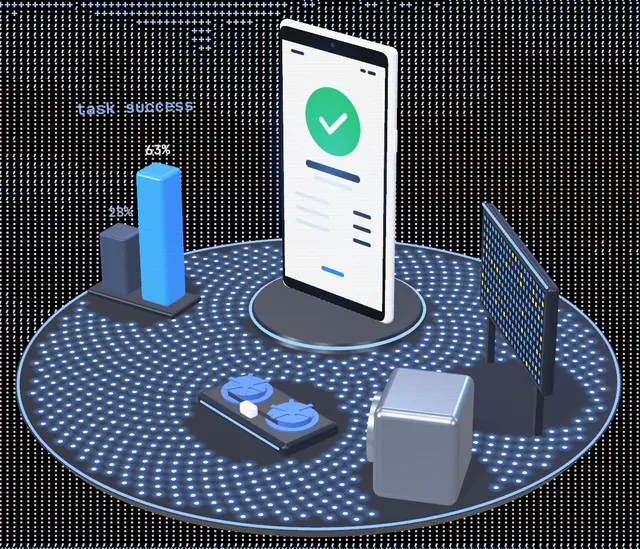
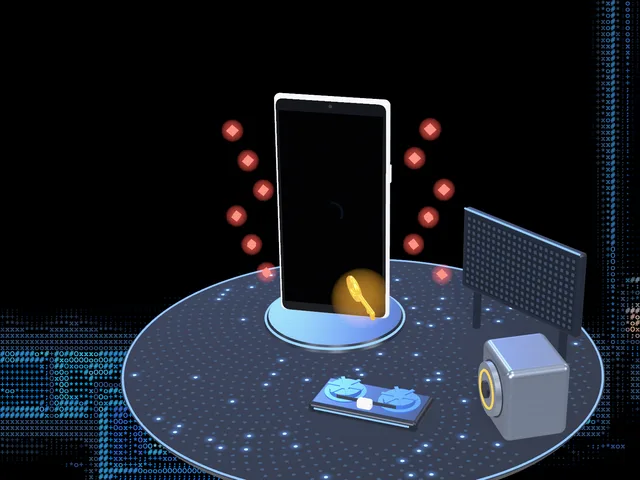
content: revise Blue Shield experience details

diff --git a/src/components/roles/scenes/blue-shield.ts b/src/components/roles/scenes/blue-shield.ts
@@ -5,7 +5,7 @@
  * without the service JWT, and both come back with the same response, the flaw it proved. The app's bundled
  * credential, a gold key in front of the phone, then moves server-side into a vault. In the close the phone's blank
  * screen (the production defect) boots into the rebuilt billing and payment flow, twelve red risk markers around it
- * are fixed, a task-success bar rises from 28% to 63%, and the member lights come on outward from the phone.
+ * are fixed, and the member lights come on outward from the phone.
  *
  * The home page shows the finished world. A click on an endpoint replays a pair against it, a click on the lit
  * phone steps through the flow's screens, and the pointer wakes the member lights it passes over. Motion follows the
@@ -42,9 +42,6 @@ const GRID = { cols: 21, rows: 11, w: 1.24, h: 0.66, y: 0.74 }
 /** The endpoint the scrolled pair replays against, and the share of endpoints the audit flags. */
 const PAIR_CELL = 115
 const FLAGGED = 0.16
-/** The task-success bars: before and after the rebuilt flows, as fractions, and the bars' full height. */
-const SUCCESS = { before: 0.28, after: 0.63, height: 1.6 }
-const BARS = { x: -1.5, z: 0.62, yaw: 0.5 }
 /** Crash and data-integrity risks fixed, one marker each. */
 const RISKS = 12
 /** Requests the work act streams at the wall before the pair. */
@@ -317,26 +314,6 @@ function drawScreens() {
   return canvas
 }
 
-/** The bars' printed labels in three rows of a transparent 512 by 384 canvas: 28%, 63%, and "task success". */
-function drawFigures() {
-  const canvas = document.createElement('canvas')
-  canvas.width = 512
-  canvas.height = 384
-  const g = canvas.getContext('2d')
-  if (!g) return canvas
-  g.textAlign = 'center'
-  g.textBaseline = 'middle'
-  g.font = '600 92px "JetBrains Mono", "IBM Plex Mono", ui-monospace, Menlo, monospace'
-  g.fillStyle = '#9fb2d2'
-  g.fillText('28%', 256, 64)
-  g.fillStyle = '#ffffff'
-  g.fillText('63%', 256, 192)
-  g.font = '500 58px "JetBrains Mono", "IBM Plex Mono", ui-monospace, Menlo, monospace'
-  g.fillStyle = '#7fb0ff'
-  g.fillText('task success', 256, 320)
-  return canvas
-}
-
 const createScene: IslandFactory = (ctx) => {
   const scene = new THREE.Scene()
   scene.environment = ctx.environment
@@ -414,14 +391,13 @@ const createScene: IslandFactory = (ctx) => {
   const deck = placed(new THREE.Group(), DECK)
   const wall = placed(new THREE.Group(), WALL)
   const vault = placed(new THREE.Group(), VAULT)
-  const bars = placed(new THREE.Group(), BARS)
 
   // The member lights: a sunflower spiral clear of everything standing on the table.
   const memberX: number[] = []
   const memberZ: number[] = []
   {
     const golden = Math.PI * (3 - Math.sqrt(5))
-    const clear = [[PHONE, 0.68], [DECK, 0.52], [WALL, 0.5], [VAULT, 0.42], [BARS, 0.42]] as const
+    const clear = [[PHONE, 0.68], [DECK, 0.52], [WALL, 0.5], [VAULT, 0.42]] as const
     for (let i = 0; i < MEMBERS; i++) {
       const r = (TABLE_R - 0.1) * Math.sqrt((i + 0.5) / MEMBERS)
       const x = Math.cos(i * golden) * r
@@ -644,40 +620,6 @@ const createScene: IslandFactory = (ctx) => {
     const row = Math.floor(index / GRID.cols)
     out.set(((col + 0.5) / GRID.cols - 0.5) * GRID.w, GRID.y + (0.5 - (row + 0.5) / GRID.rows) * GRID.h, 0.05)
     return out.applyMatrix4(wall.matrix)
-  }
-
-  // The task-success bars: 28% before the rebuilt flows and 63% after, with their figures printed above.
-  const afterBar = new THREE.Group()
-  const figures = own(new THREE.CanvasTexture(drawFigures()))
-  figures.colorSpace = THREE.SRGBColorSpace
-  const figureMaterial = own(new THREE.MeshBasicMaterial({ map: figures, transparent: true, depthWrite: false }))
-  const afterMaterial = own(new THREE.MeshBasicMaterial({ map: figures, transparent: true, depthWrite: false }))
-  /** A label plane `w` wide showing row `row` of the figures canvas, turned to the camera each frame. */
-  const label = (row: number, w: number, material: THREE.Material) => {
-    const geometry = keep(new THREE.PlaneGeometry(w, w / 4))
-    const uv = geometry.getAttribute('uv') as THREE.BufferAttribute
-    for (let i = 0; i < uv.count; i++) uv.setY(i, (2 - row + uv.getY(i)) / 3)
-    const m = new THREE.Mesh(geometry, material)
-    m.renderOrder = 3
-    return m
-  }
-  const beforeLabel = label(0, 0.54, figureMaterial)
-  const afterLabel = label(1, 0.54, afterMaterial)
-  const captionLabel = label(2, 1.0, figureMaterial)
-  {
-    const plinth = mesh(keep(new RoundedBoxGeometry(0.78, 0.05, 0.36, 3, 0.02)), graphite)
-    plinth.position.y = 0.025
-    const barGeometry = keep(new RoundedBoxGeometry(0.24, 1, 0.24, 3, 0.03))
-    barGeometry.translate(0, 0.5, 0)
-    const beforeBar = mesh(barGeometry, gloss('#3b4a66', 0.35, { metalness: 0.2 }))
-    beforeBar.scale.y = SUCCESS.before * SUCCESS.height
-    beforeBar.position.set(-0.18, 0.05, 0)
-    const after = mesh(barGeometry, gloss('#2d7ff9', 0.2, { emissive: '#1f64e0', emissiveIntensity: 0.9 }))
-    afterBar.add(after)
-    afterBar.position.set(0.18, 0.05, 0)
-    beforeLabel.position.set(-0.18, 0.05 + SUCCESS.before * SUCCESS.height + 0.14, 0)
-    captionLabel.position.set(0, 0.05 + SUCCESS.after * SUCCESS.height + 0.42, 0)
-    bars.add(plinth, beforeBar, afterBar, beforeLabel, afterLabel, captionLabel)
   }
 
   // Replayed requests: glowing pills, one aura each, and the gold JWT rings the paired ones carry.
@@ -904,7 +846,7 @@ const createScene: IslandFactory = (ctx) => {
       const locked = home ? 1 : smoother(ramp(w, 0.88, 0.95))
       lockMaterial.color.setRGB(1.6 - 1.3 * locked, 0.7 + 0.9 * locked, 0.1 + 0.4 * locked)
 
-      // The close: the blank screen boots, the risks are fixed, the bar rises, and the members light.
+      // The close: the blank screen boots, the risks are fixed, and the members light.
       const boot = home ? 1 : smoother(ramp(c, 0.06, 0.2))
       const stepped = home ? 1 : c < 0.3 ? 1 : c < 0.44 ? 2 : c < 0.58 ? 3 : 4
       const cell = boot < 0.5 ? BLANK : 1 + ((stepped - 1 + steps) % (CELLS - 1))
@@ -931,16 +873,6 @@ const createScene: IslandFactory = (ctx) => {
       riskAuras.instanceMatrix.needsUpdate = true
       if (risks.instanceColor) risks.instanceColor.needsUpdate = true
       if (riskAuras.instanceColor) riskAuras.instanceColor.needsUpdate = true
-      const rise = home ? 1 : smoother(ramp(c, 0.3, 0.7))
-      afterBar.scale.y = (SUCCESS.before + (SUCCESS.after - SUCCESS.before) * rise) * SUCCESS.height
-      afterLabel.position.set(0.18, 0.05 + afterBar.scale.y + 0.14, 0)
-      afterMaterial.opacity = home ? 1 : smoother(ramp(c, 0.3, 0.4))
-      figureMaterial.opacity = home ? 1 : smoother(ramp(c, 0.22, 0.34))
-      const facing = Math.atan2(camera.position.x - BARS.x, camera.position.z - BARS.z) - BARS.yaw
-      beforeLabel.rotation.y = facing
-      afterLabel.rotation.y = facing
-      captionLabel.rotation.y = facing
-
       const front = home ? 99 : 5 * smoother(ramp(c, 0.18, 0.9))
       ring.visible = !home && front > 0.02 && c < 0.95
       ring.scale.setScalar(Math.max(0.01, front))

diff --git a/src/content/roles/blue-shield.ts b/src/content/roles/blue-shield.ts
@@ -28,7 +28,7 @@ export const BLUE_SHIELD: RoleStory = {
       span: 1.6,
       eyebrow: 'billing and payments',
       lines: ['Rebuilt billing and payment flows, and fixed the defects members hit.'],
-      readout: ['task success 28% → 63%', '12 crash and data risks fixed', 'blank-screen defect fixed'],
+      readout: ['12 crash and data risks fixed', 'blank-screen defect fixed'],
       callouts: [
         { text: 'Click the phone to step through the flow', anchor: 'phone' },
       ],
@@ -41,6 +41,6 @@ export const BLUE_SHIELD: RoleStory = {
   // A clear electric-blue decode, and the room's ink graded toward blue.
   look: { tint: [0.16, 0.42, 1.0], grade: [0.8, 0.95, 1.2] },
   links: [],
-  poster: { src: '/roles/blue-shield/poster.webp', alt: 'A white Android phone showing a paid screen on a dark table of member lights, beside task-success bars at 28% and 63%, a reel-to-reel replay deck, a wall of endpoint lights, and a steel vault' },
+  poster: { src: '/roles/blue-shield/poster.webp', alt: 'A white Android phone with a blank screen, ringed by red risk markers and a gold key, on a dark table of member lights beside a replay deck, a wall of endpoint lights, and a steel vault' },
   scene: () => import('../../components/roles/scenes/blue-shield.ts'),
 }

diff --git a/README.md b/README.md
@@ -65,7 +65,7 @@ A secret Three.js scene with procedurally generated terrain you can sculpt and e
   <tr>
     <td valign="middle"><strong>Blue Shield of California</strong><br/><sub>Software Engineer Intern, Android · Summer 2026</sub></td>
     <td align="center" valign="middle"><img title="Android · Kotlin · Security" alt="Android, Kotlin, Security" height="28" src="https://skillicons.dev/icons?i=androidstudio,kotlin" /></td>
-    <td valign="middle">Shipped rebuilt billing and payment flows that lifted usability-test task success from 28% to 63%, and built a replay engine for 220+ endpoints that uncovered auth flaws in a 500K+ user Android app.</td>
+    <td valign="middle">Shipped rebuilt billing and payment flows, and built a replay engine for 220+ endpoints that uncovered auth flaws in a 500K+ user Android app.</td>
   </tr>
   <tr>
     <td valign="middle"><strong>Sorcea</strong><br/><sub>Software Engineer Intern, Mobile · Jan 2026 to May 2026</sub></td>
